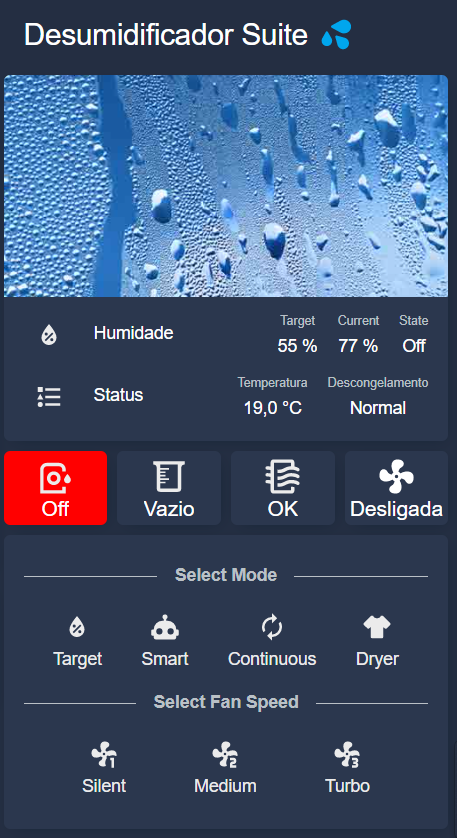
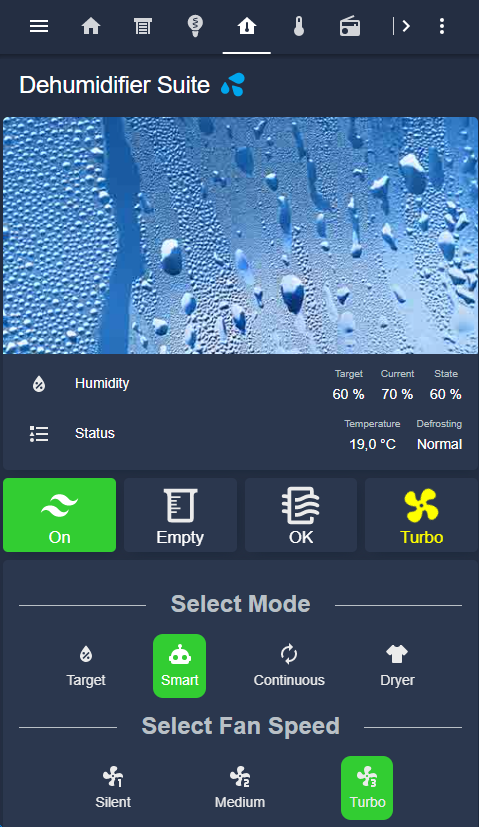
docs: Update imagens ao change labels to EN

diff --git a/README.md b/README.md
@@ -1,8 +1,8 @@
-# Dehumidifier Comfee Card
+# Dehumidifier Comfee Lovelace Card - Home Assistant
 
 I have the Comfee [Deshumidificador MDDF-20DEN7-WF 20L/day](https://www.amazon.es/-/pt/gp/product/B07MSL8YN7) and I created a lovelace card for Home Assistant from [MauricioXavier13](https://github.com/MauricioXavier13/Dehumidifier_Comfee_Card) example but using [homeassistant-midea-dehumidifier-lan](https://github.com/nbogojevic/homeassistant-midea-dehumidifier-lan) integration.
 
-![example3](/assets/Example_3.jpg)
+![animation](/assets/Dehumidifier_Animation.gif)
 
 ## Home Assistant Cards, Configuration and information
 
@@ -34,9 +34,5 @@ Entities to replace:
 
 ### Examples
 
-![example2](/assets/Example_2.jpg)
-
-https://user-images.githubusercontent.com/74264882/111458565-7a3ddb00-8711-11eb-9adb-d3d79542a32d.mp4
-
-
-https://user-images.githubusercontent.com/74264882/111458584-7f9b2580-8711-11eb-918c-27fb9ca7ebe4.mp4
+![example1](/assets/Example_1.png) 
+![example1](/assets/Example_2.png)
